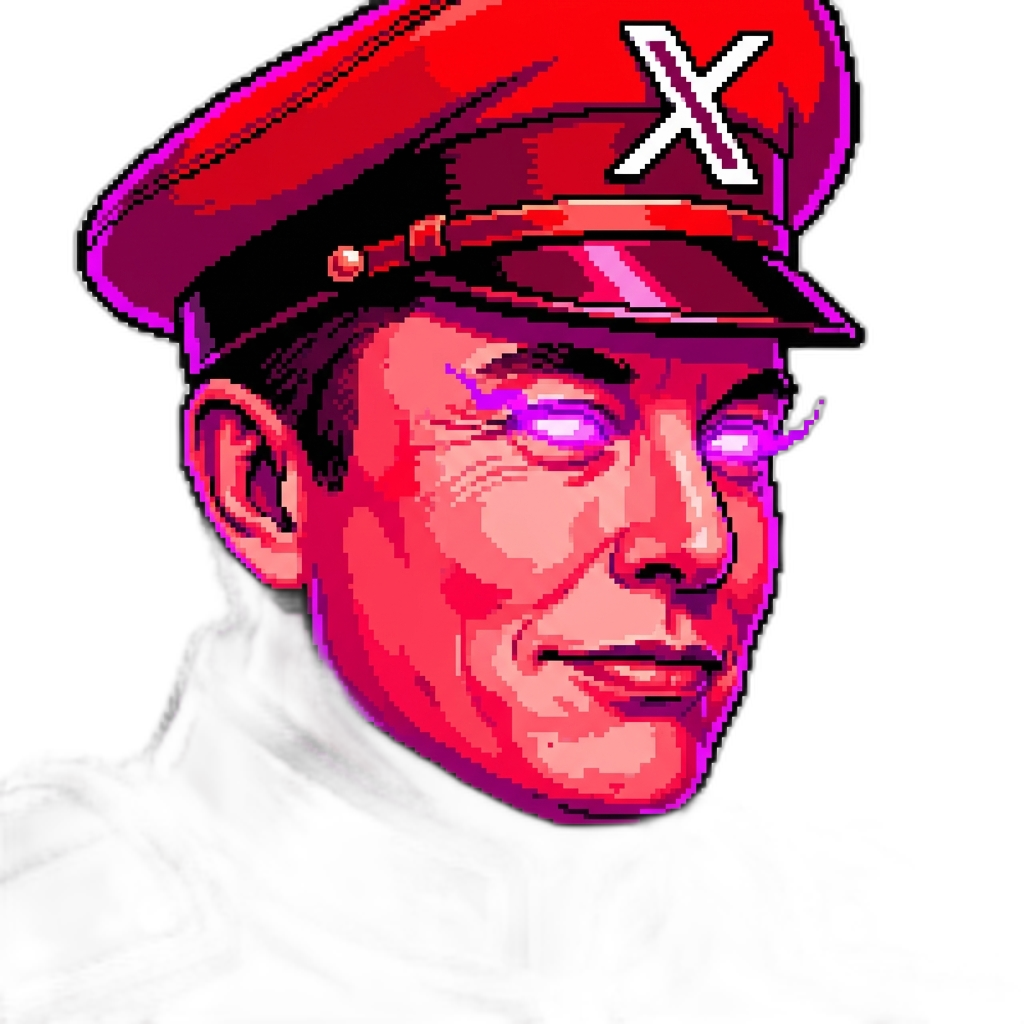
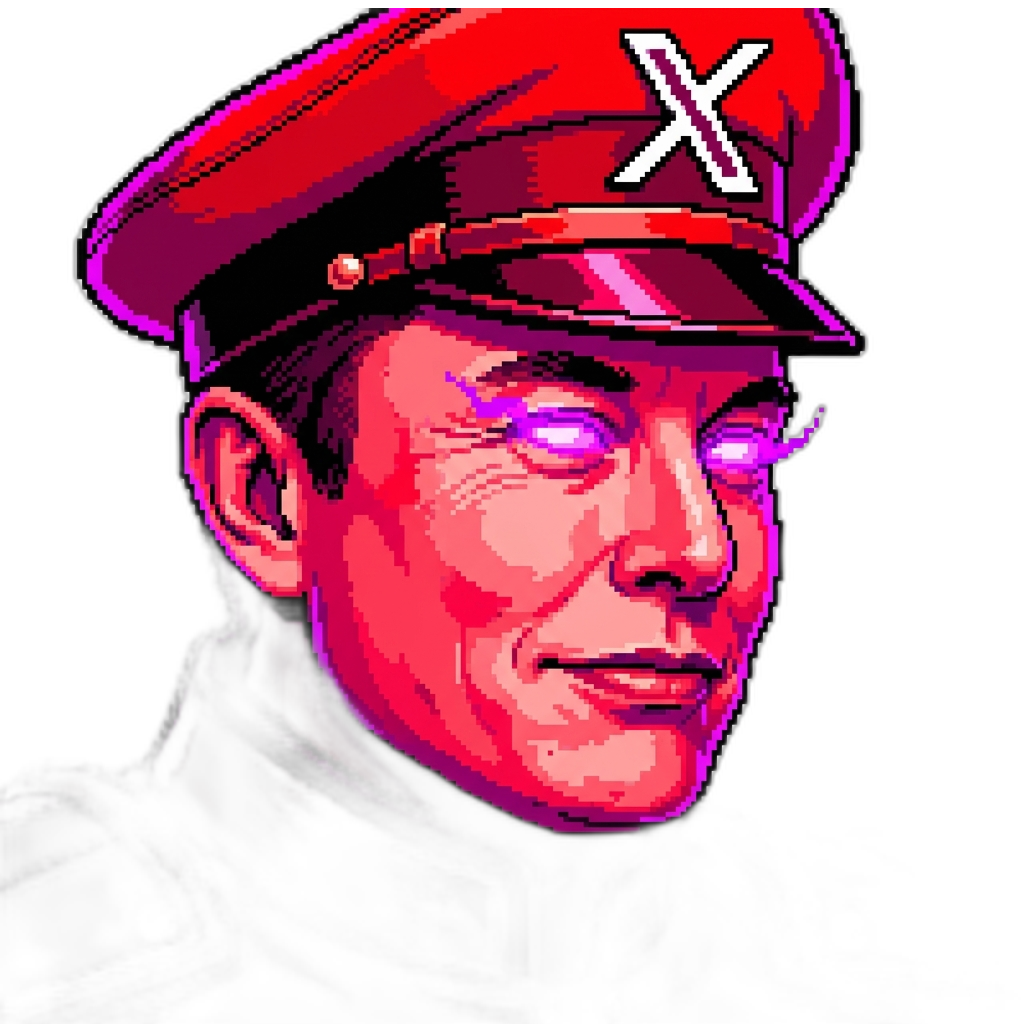
Shift Musk Fighter Card down 8px to fix cap cutoff

Changed region(s): [[0.0625, 0.0, 0.8438, 0.8438], [0.375, 0.5312, 0.4062, 0.5625], [0.1562, 0.6875, 0.1875, 0.7188]]

diff --git a/scripts/shift_musk.py b/scripts/shift_musk.py
@@ -1,0 +1,22 @@
+import os
+from PIL import Image
+
+def shift_image_down(file_path, pixels):
+    if not os.path.exists(file_path):
+        print(f"File not found: {file_path}")
+        return
+        
+    img = Image.open(file_path).convert("RGBA")
+    w, h = img.size
+    
+    # Create a new transparent canvas
+    new_img = Image.new("RGBA", (w, h), (0, 0, 0, 0))
+    # Paste the original image shifted down
+    new_img.paste(img, (0, pixels))
+    
+    new_img.save(file_path)
+    print(f"Shifted {file_path} down by {pixels} pixels.")
+
+if __name__ == "__main__":
+    target = r"c:\Users\dacan\OneDrive\Documenti\My Games\civic-nightmare\assets\mockups\musk_combat_portrait.png"
+    shift_image_down(target, 8)
